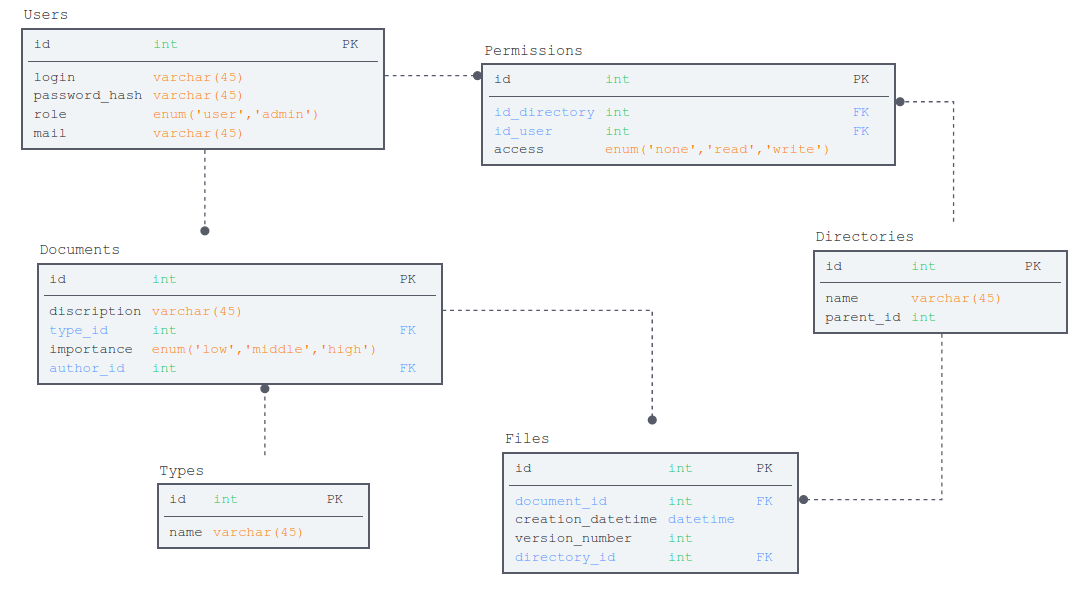
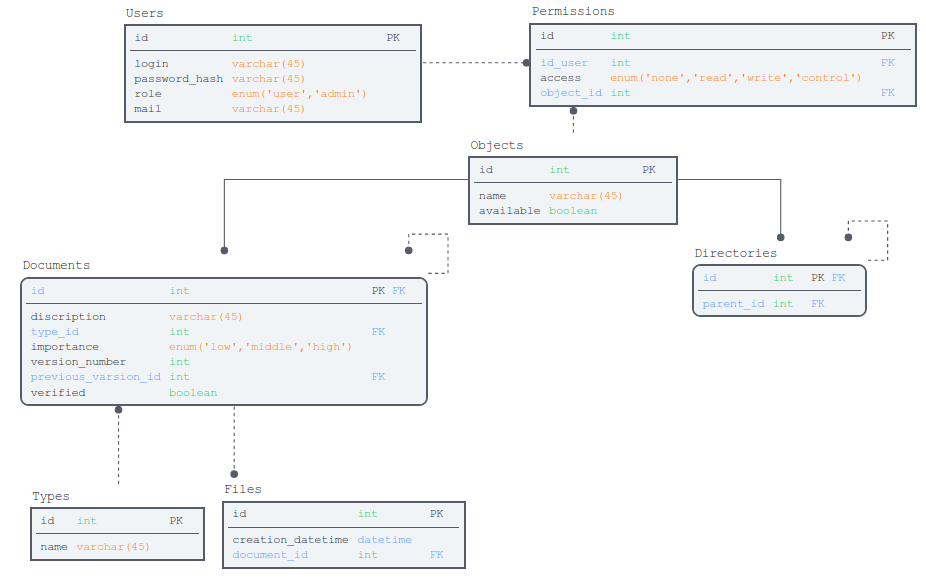
Changed schemas pictures

diff --git a/README.md b/README.md
@@ -1,6 +1,6 @@
 # documents-service
-Preview version of module diagram:
-![Modules](modules.png)
+Second version of module diagram:  
+![Modules](modules.png)  
 
-Preview version of database schema:
+Second version of database schema:  
 ![Database schema](database%20schema.png)
